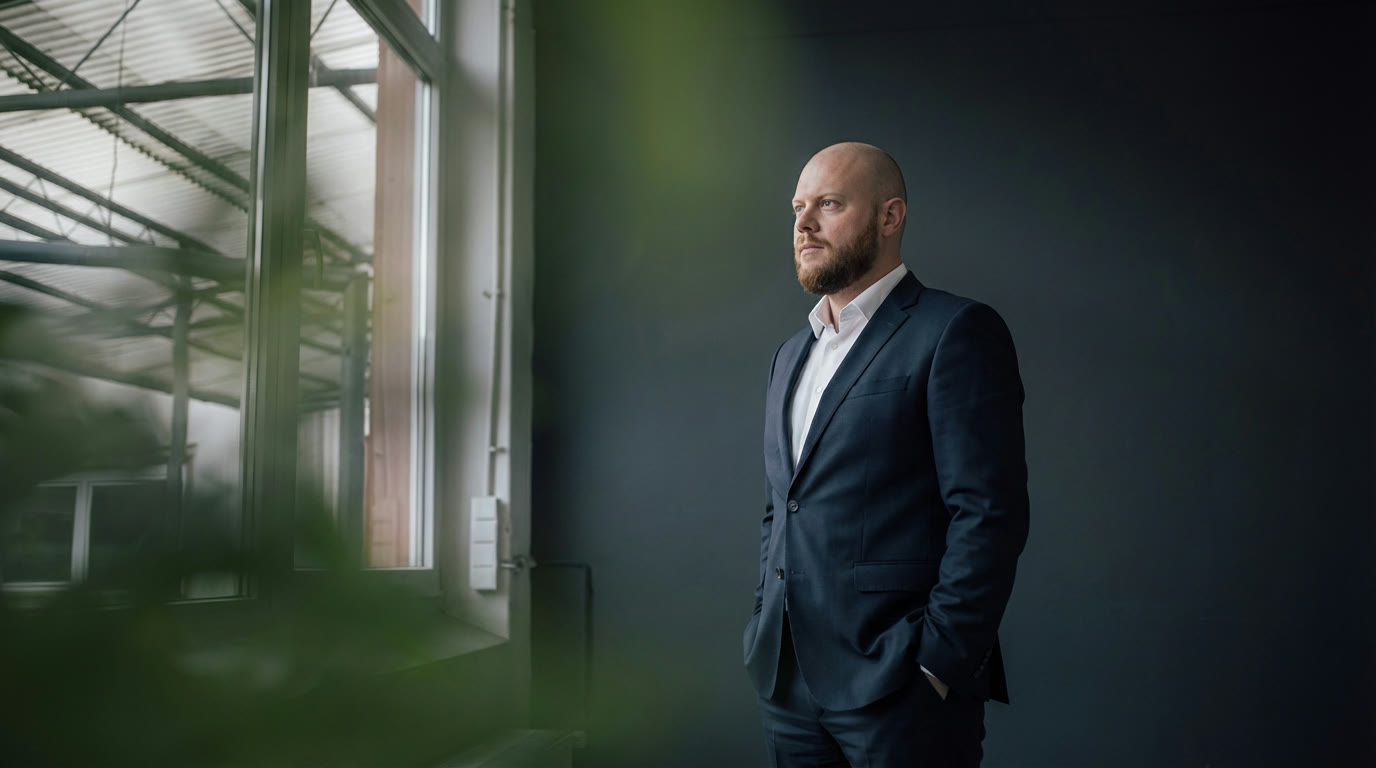
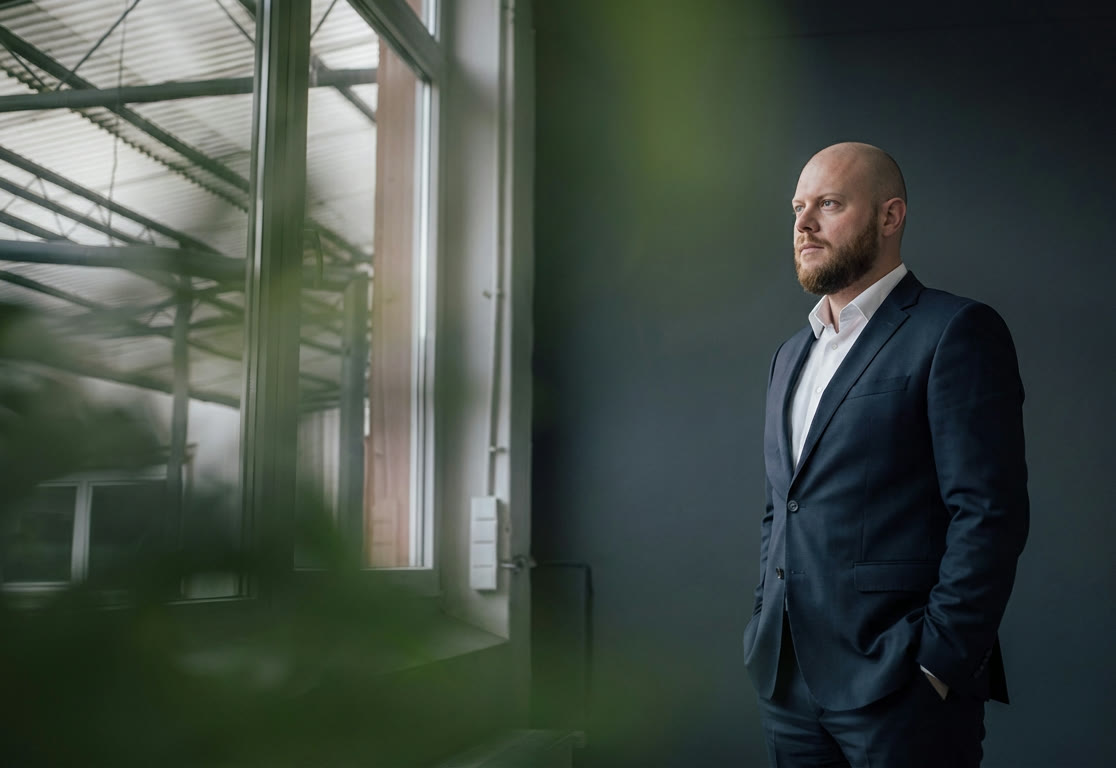
alexey: фото hero кадрировано правее текста, стрелка вместо «(Листайте)»

diff --git a/alexey/index.html b/alexey/index.html
@@ -115,7 +115,7 @@
 
   /* ---------- hero ---------- */
   .hero{position:relative;min-height:100svh;color:var(--paper);background:var(--ink);overflow:hidden;display:grid;grid-template-rows:1fr auto}
-  .hero__img{position:absolute;inset:0;width:100%;height:100%;object-fit:cover;object-position:62% 38%;transform:scale(1.08);transition:transform 1.8s var(--ease)}
+  .hero__img{position:absolute;inset:0;width:100%;height:100%;object-fit:cover;object-position:100% 38%;transform:scale(1.08);transition:transform 1.8s var(--ease)}
   html.ready .hero__img{transform:none}
   .hero::before{content:"";position:absolute;inset:0;background:
     linear-gradient(249deg,rgba(49,58,63,0) 18%,rgba(23,25,26,.98) 90%),
@@ -123,7 +123,7 @@
     linear-gradient(180deg,rgba(23,25,26,.35),rgba(23,25,26,0) 30%,rgba(23,25,26,0) 55%,rgba(23,25,26,.7) 100%);
     background-size:66% 100%,66% 100%,100% 100%;background-position:left top,left bottom,left top;background-repeat:no-repeat;pointer-events:none}
   .hero__main{position:relative;z-index:2;padding:calc(var(--head) + 48px) var(--pad) 56px;display:flex;flex-direction:column;justify-content:flex-end;gap:36px}
-  .hero h1{font-size:clamp(52px,8.6vw,132px);letter-spacing:-.035em;line-height:.96}
+  .hero h1{font-size:clamp(52px,8vw,124px);letter-spacing:-.035em;line-height:.96}
   .lw{display:block;overflow:hidden;padding-bottom:.04em;margin-bottom:-.04em}
   .lw>span{display:block;transform:translateY(112%);transition:transform 1.1s var(--ease)}
   html.ready .lw>span{transform:none}
@@ -132,10 +132,10 @@
   .hero__lead{font-size:clamp(18px,1.6vw,22px);line-height:1.35;max-width:30ch}
   .hero__bar{position:relative;z-index:2;border-top:1px solid currentColor;grid-template-columns:1fr 1fr 1fr;font-size:14px;line-height:1.25}
   .hero__bar .cell{padding:16px var(--pad)}
-  .scroll{display:inline-flex;align-items:center;gap:10px}
-  .scroll i{display:inline-block;width:10px;height:14px;overflow:hidden;position:relative}
-  .scroll i::before{content:"";position:absolute;left:4px;top:0;width:1px;height:14px;background:currentColor;animation:scroll-down 1.8s var(--ease) infinite}
-  @keyframes scroll-down{0%{transform:translateY(-150%)}30%,70%{transform:translateY(0)}to{transform:translateY(150%)}}
+  .scroll{display:inline-flex;width:16px;height:16px;overflow:hidden}
+  .scroll svg{width:16px;height:16px;display:block;animation:scroll-down 2.2s var(--ease) infinite}
+  @keyframes scroll-down{0%{transform:translateY(-120%)}35%,65%{transform:translateY(0)}to{transform:translateY(120%)}}
+  html.static .scroll svg{animation:none}
 
   /* ---------- facts ---------- */
   .facts{grid-template-columns:repeat(4,1fr)}
@@ -274,7 +274,7 @@
     .header.is-open{color:var(--paper);background:transparent;box-shadow:none}
     .brand,.menu-btn{position:relative;z-index:2}
     .brand{font-size:14px}
-    .hero__img{object-position:68% 20%}
+    .hero__img{object-position:92% 20%}
     .hero__main{padding-top:calc(var(--head) + 40px);padding-bottom:36px;gap:28px}
     .hero h1{font-size:clamp(40px,11.5vw,80px)}
     .hero__sub{flex-direction:column;align-items:flex-start;gap:24px}
@@ -342,7 +342,7 @@
 <main id="top">
 
   <section class="hero" aria-label="Главное">
-    <img class="hero__img" src="img/hero.jpg" width="1376" height="768" alt="Алексей Черкасский в офисе у окна" fetchpriority="high">
+    <img class="hero__img" src="img/hero.jpg" width="1116" height="768" alt="Алексей Черкасский в офисе у окна" fetchpriority="high">
     <div class="hero__main">
       <h1><span class="lw"><span>Адвокат</span></span><span class="lw"><span>по&nbsp;арбитражным</span></span><span class="lw"><span>спорам</span></span></h1>
       <div class="hero__sub">
@@ -351,7 +351,7 @@
       </div>
     </div>
     <div class="row hero__bar">
-      <div class="cell"><span class="scroll"><i aria-hidden="true"></i>(Листайте)</span></div>
+      <div class="cell"><span class="scroll" aria-label="Листайте вниз"><svg viewBox="0 0 16 16" aria-hidden="true"><path d="M8 1v13M2.5 8.5 8 14l5.5-5.5" fill="none" stroke="currentColor" stroke-width="1.2"/></svg></span></div>
       <div class="cell">Партнёр адвокатского бюро «Мушаилов, Узденский, Рыбаков и&nbsp;партнёры»</div>
       <div class="cell">Москва · Хабаровск · онлайн по&nbsp;всей России</div>
     </div>
